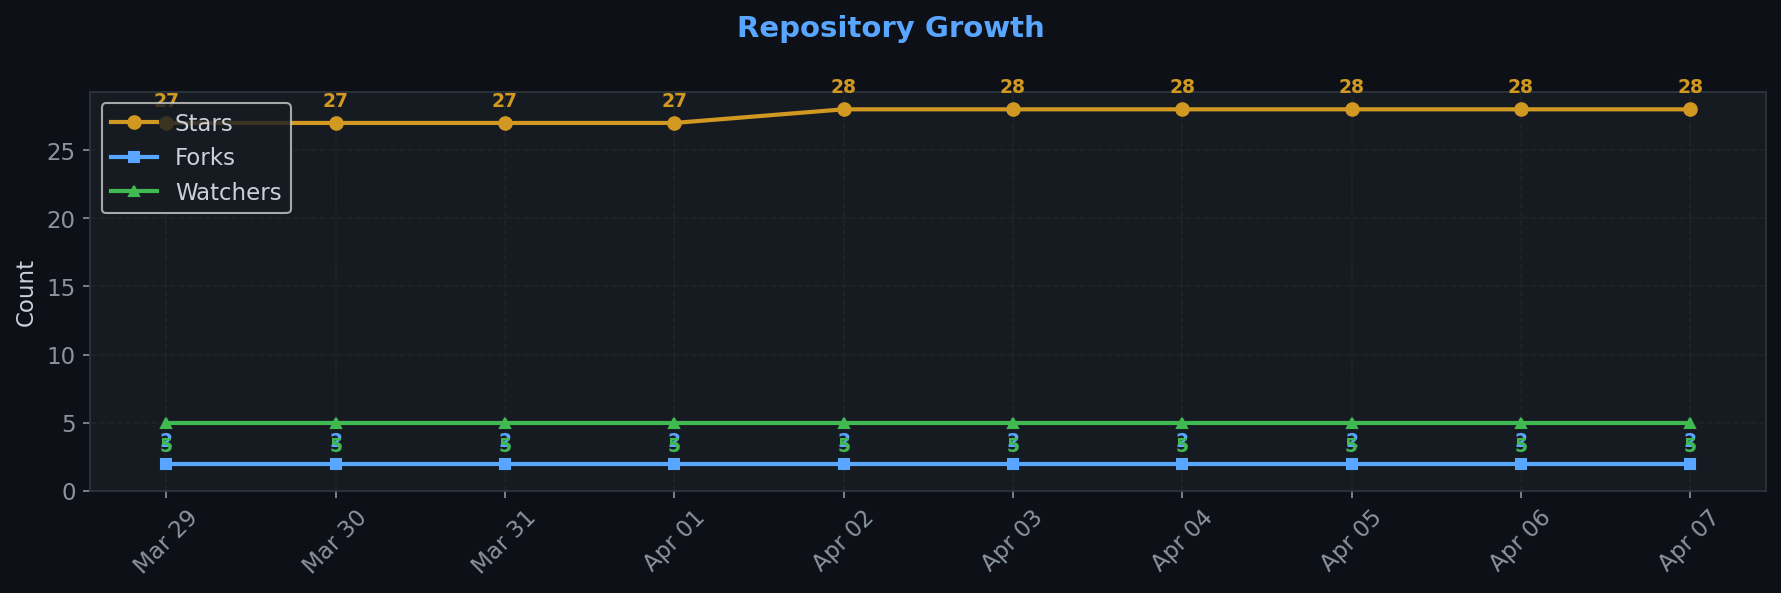
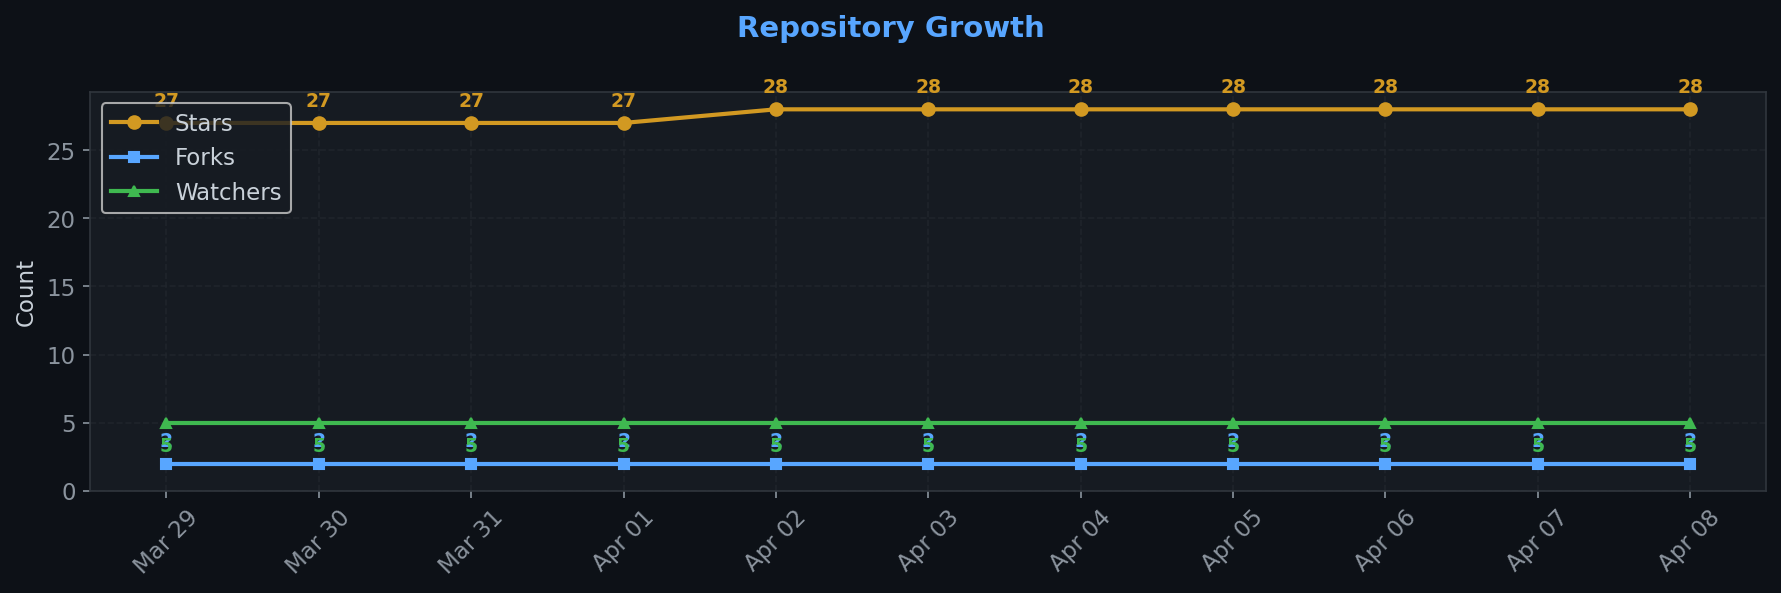
chore: Full traffic snapshot 2026-04-08_06:13

diff --git a/.github/traffic/SUMMARY.md b/.github/traffic/SUMMARY.md
@@ -1,7 +1,7 @@
 # Repository Traffic Dashboard
 
-**Last updated:** 2026-04-07T18:42:48Z
-**Days tracked:** 10 | **Download snapshots:** 42 (hourly)
+**Last updated:** 2026-04-08T06:13:01Z
+**Days tracked:** 11 | **Download snapshots:** 43 (hourly)
 
 ---
 
